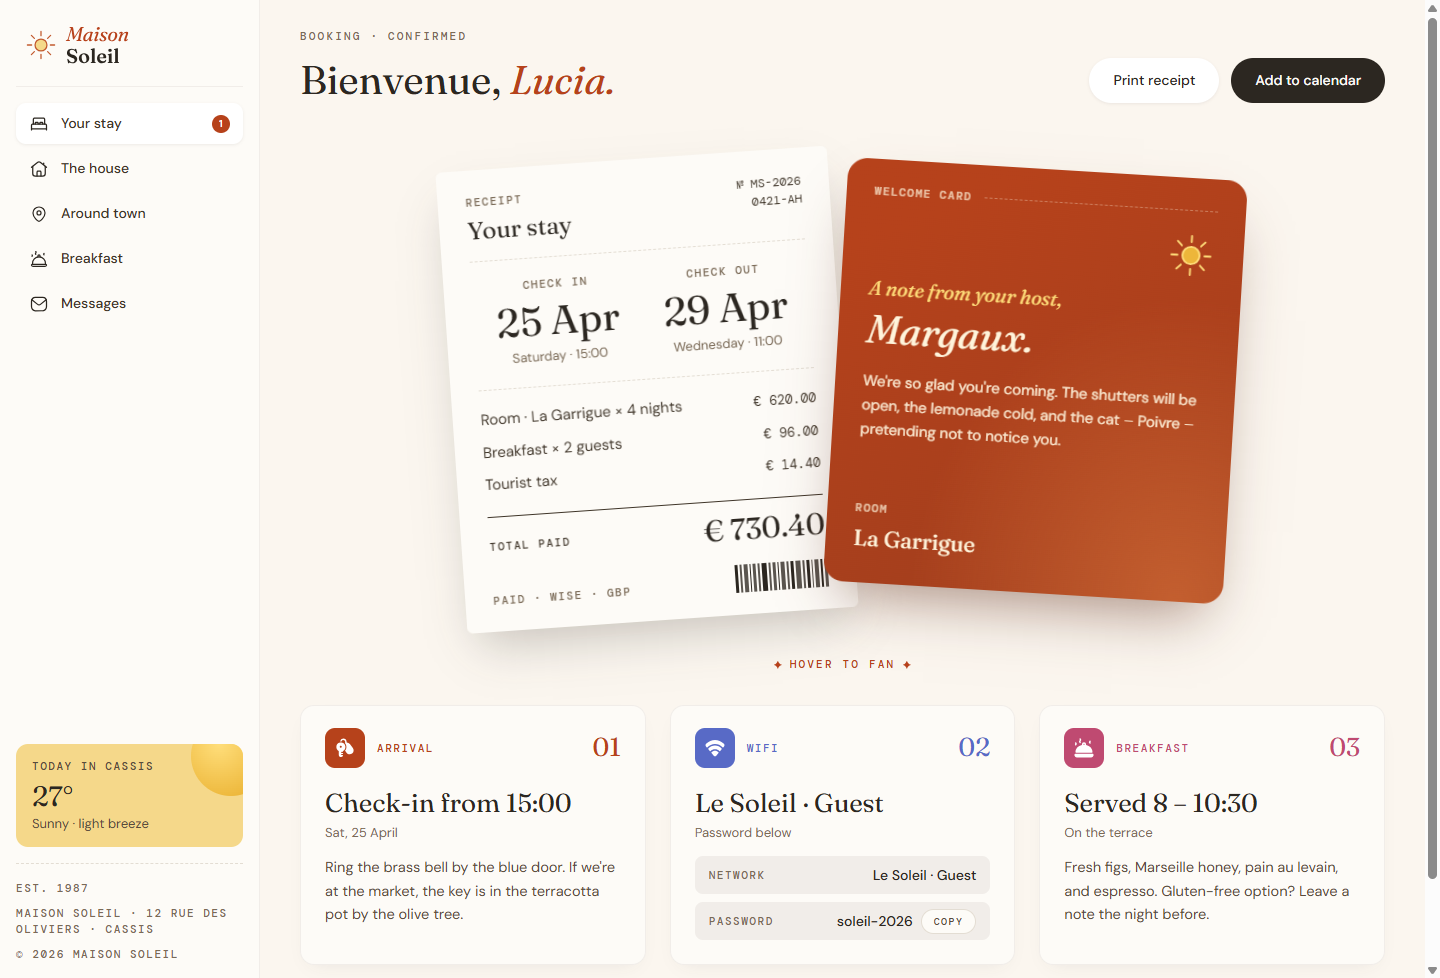
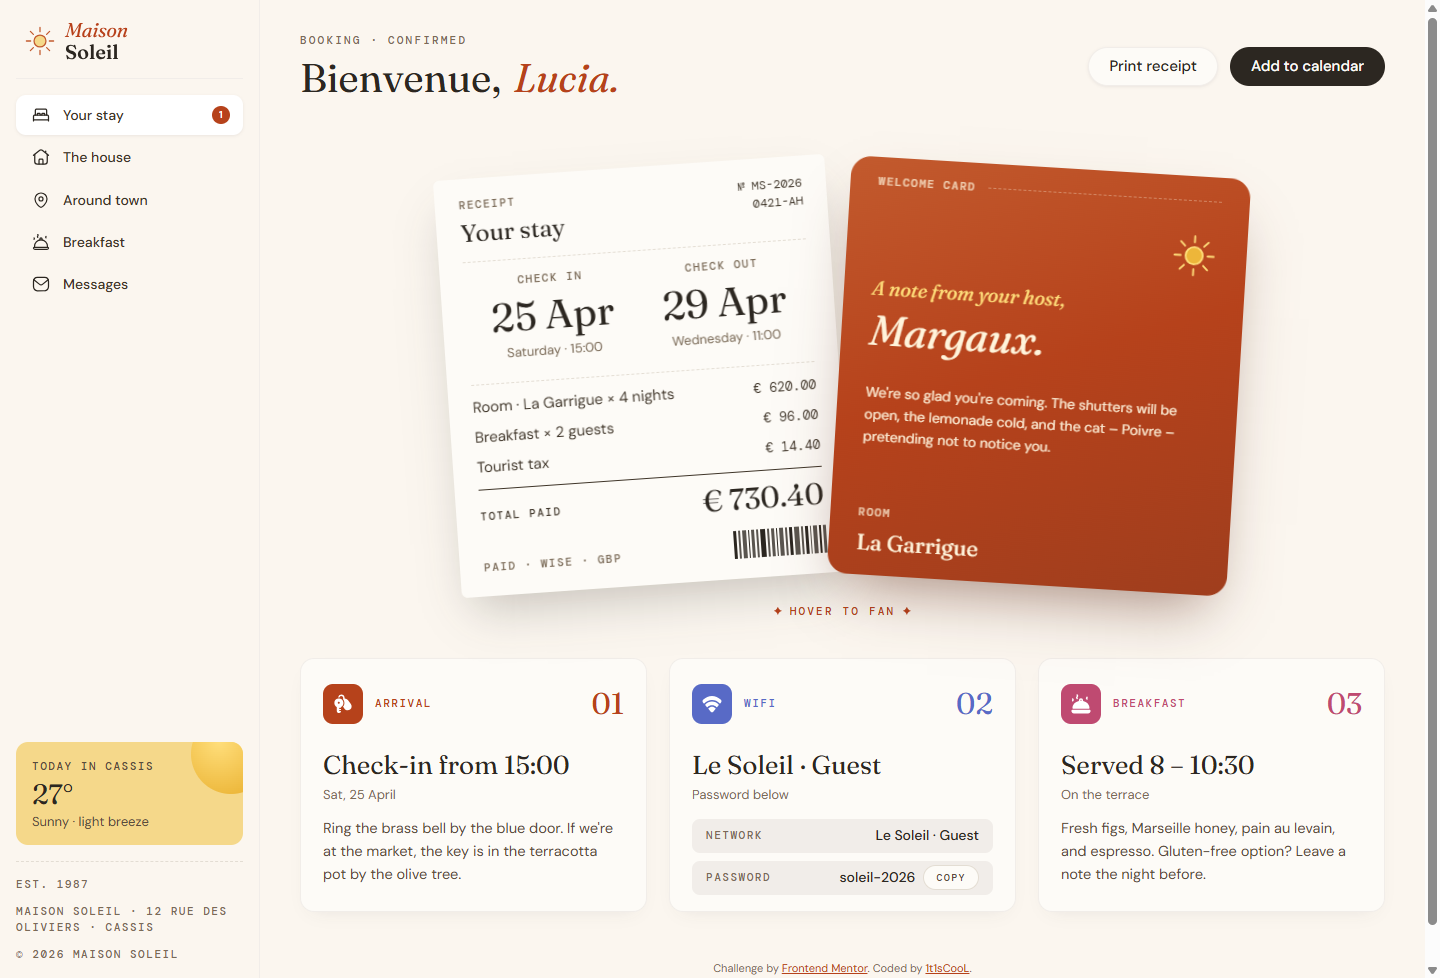
style: pixel-perfect pass measured against the design JPGs
Probed the design pixels programmatically (canvas scans) and aligned every
anchor to within 1-2px: sidebar nav pitch/insets, header type sizes, card
stack geometry (392/400 x 418, centers at 629/1045, cards touch at rest),
receipt dividers, welcome gradient direction, info card grid and internals.
Sun illustration now fades in with the hover fan like the design.

diff --git a/src/widgets/booking/BookingStack.vue b/src/widgets/booking/BookingStack.vue
@@ -22,7 +22,7 @@ import iconSparkle from "../../shared/assets/images/icon-sparkle.svg";
 
 <style scoped>
 .stack-section {
-  margin-top: 2rem;
+  margin-top: 1.75rem;
 }
 
 .stack {
@@ -55,7 +55,7 @@ import iconSparkle from "../../shared/assets/images/icon-sparkle.svg";
     align-items: center;
     justify-content: center;
     gap: 0;
-    padding: 1.5rem 0;
+    padding: 2.375rem 0 0.125rem;
   }
 
   .stack__sun {
@@ -65,6 +65,13 @@ import iconSparkle from "../../shared/assets/images/icon-sparkle.svg";
     left: 50%;
     translate: -50% -50%;
     z-index: 0;
+    opacity: 0;
+    transition: opacity 0.4s ease;
+  }
+
+  .stack:hover .stack__sun,
+  .stack:focus-within .stack__sun {
+    opacity: 1;
   }
 
   .stack__receipt,
@@ -77,16 +84,17 @@ import iconSparkle from "../../shared/assets/images/icon-sparkle.svg";
   .stack__receipt {
     z-index: 1;
     width: 24.5rem;
+    min-height: 26.125rem;
     flex-shrink: 0;
-    transform: rotate(-4deg) translateX(0.25rem);
+    transform: rotate(-4deg);
   }
 
   .stack__welcome {
     z-index: 2;
     width: 25rem;
-    min-height: 26.5rem;
+    min-height: 26.125rem;
     flex-shrink: 0;
-    transform: rotate(3.5deg) translateX(-0.25rem) translateY(-0.5rem);
+    transform: rotate(3.5deg);
   }
 
   .stack:hover .stack__receipt,
@@ -104,7 +112,7 @@ import iconSparkle from "../../shared/assets/images/icon-sparkle.svg";
     align-items: center;
     justify-content: center;
     gap: 0.5rem;
-    margin-top: 0.75rem;
+    margin-top: 1rem;
     color: var(--Terracotta600);
     letter-spacing: 0.2em;
   }

diff --git a/src/widgets/booking/ReceiptCard.vue b/src/widgets/booking/ReceiptCard.vue
@@ -54,7 +54,7 @@ const items = [
 .receipt {
   display: flex;
   flex-direction: column;
-  padding: 1.5rem 1.75rem 1.375rem;
+  padding: 1.125rem 1.5rem 1rem;
   background-color: var(--Neutral50);
   border-radius: 0.375rem;
   box-shadow: 0 1.5rem 3rem -0.75rem hsl(33, 15%, 15%, 0.25);
@@ -67,7 +67,7 @@ const items = [
 .receipt__header {
   display: flex;
   justify-content: space-between;
-  padding-bottom: 1rem;
+  padding-bottom: 0.875rem;
   border-bottom: 1.5px dashed var(--Neutral400);
 }
 
@@ -90,7 +90,7 @@ const items = [
 .receipt__dates {
   display: grid;
   grid-template-columns: 1fr 1fr;
-  padding: 1.125rem 0 1.25rem;
+  padding: 0.75rem 0 1.25rem;
   border-bottom: 1.5px dashed var(--Neutral400);
   text-align: center;
 }
@@ -112,8 +112,8 @@ const items = [
 .receipt__items {
   display: flex;
   flex-direction: column;
-  gap: 0.625rem;
-  padding: 1.125rem 0 1.25rem;
+  gap: 0.5rem;
+  padding: 0.75rem 0 0.625rem;
 }
 
 .receipt__item {
@@ -122,6 +122,7 @@ const items = [
   justify-content: space-between;
   gap: 1rem;
   font-size: 0.9375rem;
+  line-height: 1.45;
   color: var(--Neutral800);
 }
 
@@ -134,7 +135,7 @@ const items = [
   display: flex;
   align-items: center;
   justify-content: space-between;
-  padding: 0.875rem 0;
+  padding: 0.75rem 0;
   border-top: 1.5px solid var(--Neutral800);
 }
 
@@ -152,6 +153,6 @@ const items = [
   display: flex;
   align-items: flex-end;
   justify-content: space-between;
-  margin-top: 0.375rem;
+  margin-top: 0.25rem;
 }
 </style>

diff --git a/src/widgets/info/InfoCards.vue b/src/widgets/info/InfoCards.vue
@@ -81,11 +81,11 @@ async function copyPassword() {
 .cards {
   display: grid;
   gap: 1.25rem;
-  margin-top: 2rem;
+  margin-top: 2.4375rem;
 }
 
 .card {
-  padding: 1.375rem 1.5rem 1.5rem;
+  padding: 1.375rem 1.375rem 1rem;
   background-color: var(--Neutral50);
   border: 1px solid var(--Neutral200);
   border-radius: 0.875rem;
@@ -118,12 +118,12 @@ async function copyPassword() {
 .card__index {
   margin-left: auto;
   font-family: var(--font-serif);
-  font-size: 1.625rem;
+  font-size: 1.875rem;
   color: var(--accent);
 }
 
 .card__title {
-  margin-top: 1.25rem;
+  margin-top: 1.5rem;
   font-family: var(--font-serif);
   font-size: 1.625rem;
   font-weight: 400;
@@ -137,7 +137,7 @@ async function copyPassword() {
 }
 
 .card__body {
-  margin-top: 0.875rem;
+  margin-top: 0.75rem;
   font-size: 0.9063rem;
   line-height: 1.6;
   color: var(--Neutral700);
@@ -156,8 +156,8 @@ async function copyPassword() {
   align-items: center;
   justify-content: space-between;
   gap: 0.75rem;
-  min-height: 2.375rem;
-  padding: 0.375rem 0.875rem;
+  min-height: 2.125rem;
+  padding: 0.25rem 0.875rem;
   background-color: var(--Neutral200);
   border-radius: 0.5rem;
 }
@@ -210,7 +210,7 @@ async function copyPassword() {
 @media (min-width: 60rem) {
   .cards {
     grid-template-columns: repeat(3, 1fr);
-    gap: 1.5rem;
+    gap: 1.375rem;
   }
 }
 

diff --git a/src/widgets/booking/WelcomeCard.vue b/src/widgets/booking/WelcomeCard.vue
@@ -29,12 +29,11 @@ import iconSun from "../../shared/assets/images/icon-sun.svg";
 .welcome {
   display: flex;
   flex-direction: column;
-  padding: 1.5rem 1.75rem 1.75rem;
+  min-height: 27.5rem;
+  padding: 1rem 1.75rem 1.75rem;
   border-radius: 1.25rem;
   color: var(--Sun50);
-  background:
-    radial-gradient(120% 130% at 88% 100%, hsl(22, 72%, 56%, 0.55) 0%, transparent 55%),
-    linear-gradient(155deg, var(--Terracotta600) 15%, var(--Terracotta700) 100%);
+  background: linear-gradient(160deg, var(--Terracotta500) 0%, var(--Terracotta600) 48%, var(--Terracotta700) 100%);
   box-shadow: 0 1.875rem 3.75rem -1.25rem hsl(15, 69%, 20%, 0.5);
 }
 
@@ -55,7 +54,7 @@ import iconSun from "../../shared/assets/images/icon-sun.svg";
 
 .welcome__sun {
   align-self: flex-end;
-  margin-top: 0.75rem;
+  margin-top: 1.375rem;
 }
 
 .welcome__lead {
@@ -75,10 +74,25 @@ import iconSun from "../../shared/assets/images/icon-sun.svg";
 }
 
 .welcome__note {
-  margin-top: 1.125rem;
+  margin-top: 1.75rem;
   font-size: 0.9375rem;
   line-height: 1.6;
   color: hsl(41, 100%, 93%, 0.92);
+}
+
+@media (min-width: 48rem) {
+  .welcome {
+    min-height: 0;
+    padding-bottom: 1rem;
+  }
+
+  .welcome__host {
+    font-size: 2.625rem;
+  }
+
+  .welcome__note {
+    font-size: 0.875rem;
+  }
 }
 
 .welcome__footer {

diff --git a/src/widgets/sidebar/SidebarContent.vue b/src/widgets/sidebar/SidebarContent.vue
@@ -52,18 +52,19 @@ const navItems = [
 .nav {
   display: flex;
   flex-direction: column;
-  gap: 0.25rem;
+  gap: 0.125rem;
 }
 
 .nav__link {
   display: flex;
   align-items: center;
   gap: 0.75rem;
-  padding: 0.5625rem 0.75rem;
+  padding: 0.5625rem 0.75rem 0.5625rem 0.875rem;
   border: 1px solid transparent;
   border-radius: 0.625rem;
   font-size: 0.875rem;
   font-weight: 500;
+  line-height: 1.45;
   color: var(--Neutral800);
   text-decoration: none;
   transition: background-color 0.2s;
@@ -101,7 +102,7 @@ const navItems = [
 .weather {
   position: relative;
   margin-top: auto;
-  padding: 0.875rem 1rem;
+  padding: 1rem 1rem 0.875rem;
   border-radius: 0.75rem;
   overflow: hidden;
   background-color: var(--Sun300);
@@ -125,7 +126,7 @@ const navItems = [
 }
 
 .weather__temp {
-  margin-top: 0.375rem;
+  margin-top: 0.25rem;
   font-family: var(--font-serif);
   font-size: 1.75rem;
   line-height: 1.1;
@@ -141,11 +142,11 @@ const navItems = [
 /* --- Bottom info --- */
 .footer-info {
   margin-top: 1rem;
-  padding-top: 1rem;
+  padding-top: 0.875rem;
   border-top: 1.5px dashed var(--Neutral400);
   display: flex;
   flex-direction: column;
-  gap: 0.5rem;
+  gap: 0.625rem;
 }
 
 .footer-info .eyebrow {

diff --git a/src/widgets/main/MainHeader.vue b/src/widgets/main/MainHeader.vue
@@ -32,14 +32,15 @@ function printReceipt() {
 }
 
 .header__title {
-  margin-top: 0.75rem;
+  margin-top: 0.375rem;
   font-family: var(--font-serif);
-  font-size: 2.25rem;
+  font-size: 2.1875rem;
   font-weight: 400;
   line-height: 1.15;
 }
 
 .header__title em {
+  margin-left: 0.25rem;
   color: var(--Terracotta600);
 }
 
@@ -49,15 +50,17 @@ function printReceipt() {
 }
 
 .button {
-  padding: 0.75rem 1.5rem;
+  padding: 0.4375rem 1.25rem;
   border-radius: 999px;
-  font-size: 0.875rem;
+  border: 1px solid transparent;
+  font-size: 0.9375rem;
   font-weight: 500;
   transition: background-color 0.2s;
 }
 
 .button--light {
-  background-color: var(--Neutral0);
+  background-color: var(--Neutral50);
+  border-color: var(--Neutral200);
   color: var(--Neutral900);
   box-shadow: 0 1px 3px hsl(33, 15%, 15%, 0.08);
 }
@@ -94,7 +97,7 @@ function printReceipt() {
 @media (min-width: 48rem) {
   .header {
     flex-direction: row;
-    align-items: flex-end;
+    align-items: center;
     justify-content: space-between;
   }
 

diff --git a/src/app/App.vue b/src/app/App.vue
@@ -115,7 +115,7 @@ function onKeydown(event: KeyboardEvent) {
   flex-direction: column;
   padding: 1rem;
   overflow-y: auto;
-  background-color: var(--Neutral50);
+  background-color: var(--Neutral100);
 }
 
 .mobile-menu__header {
@@ -171,12 +171,12 @@ function onKeydown(event: KeyboardEvent) {
     height: 100vh;
     padding: 1rem;
     overflow-y: auto;
-    background-color: var(--Neutral50);
+    background-color: var(--Neutral100);
     border-right: 1px solid var(--Neutral200);
   }
 
   .sidebar__logo {
-    padding: 0.5rem 0.5rem 1.25rem;
+    padding: 0.25rem 0.25rem 1rem 0.4375rem;
     border-bottom: 1px solid var(--Neutral200);
     margin-bottom: 1rem;
   }
@@ -188,7 +188,7 @@ function onKeydown(event: KeyboardEvent) {
   }
 
   .main {
-    padding: 1.75rem 2.5rem 2.5rem;
+    padding: 2rem 2.5rem 2.5rem;
   }
 }
 
